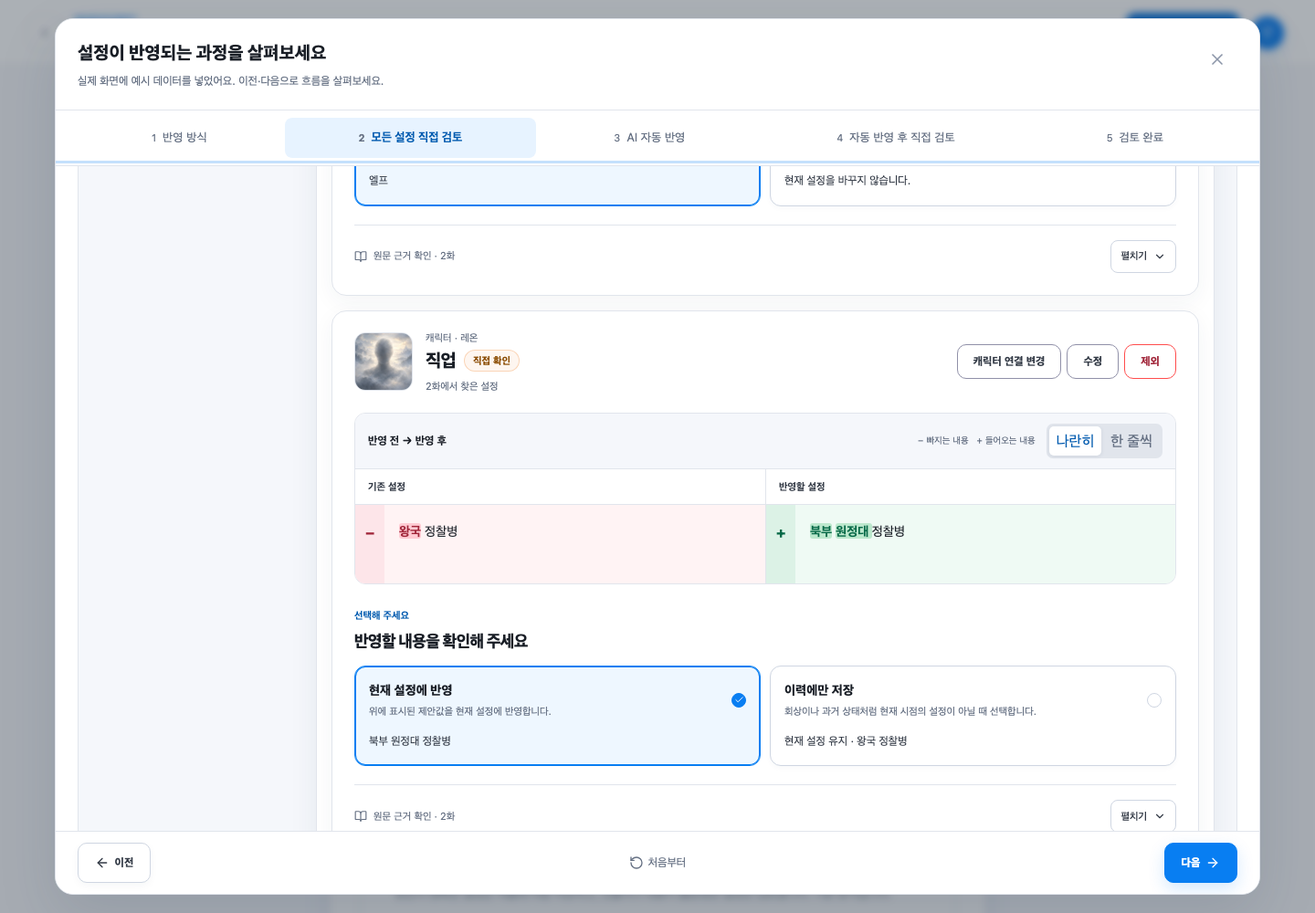
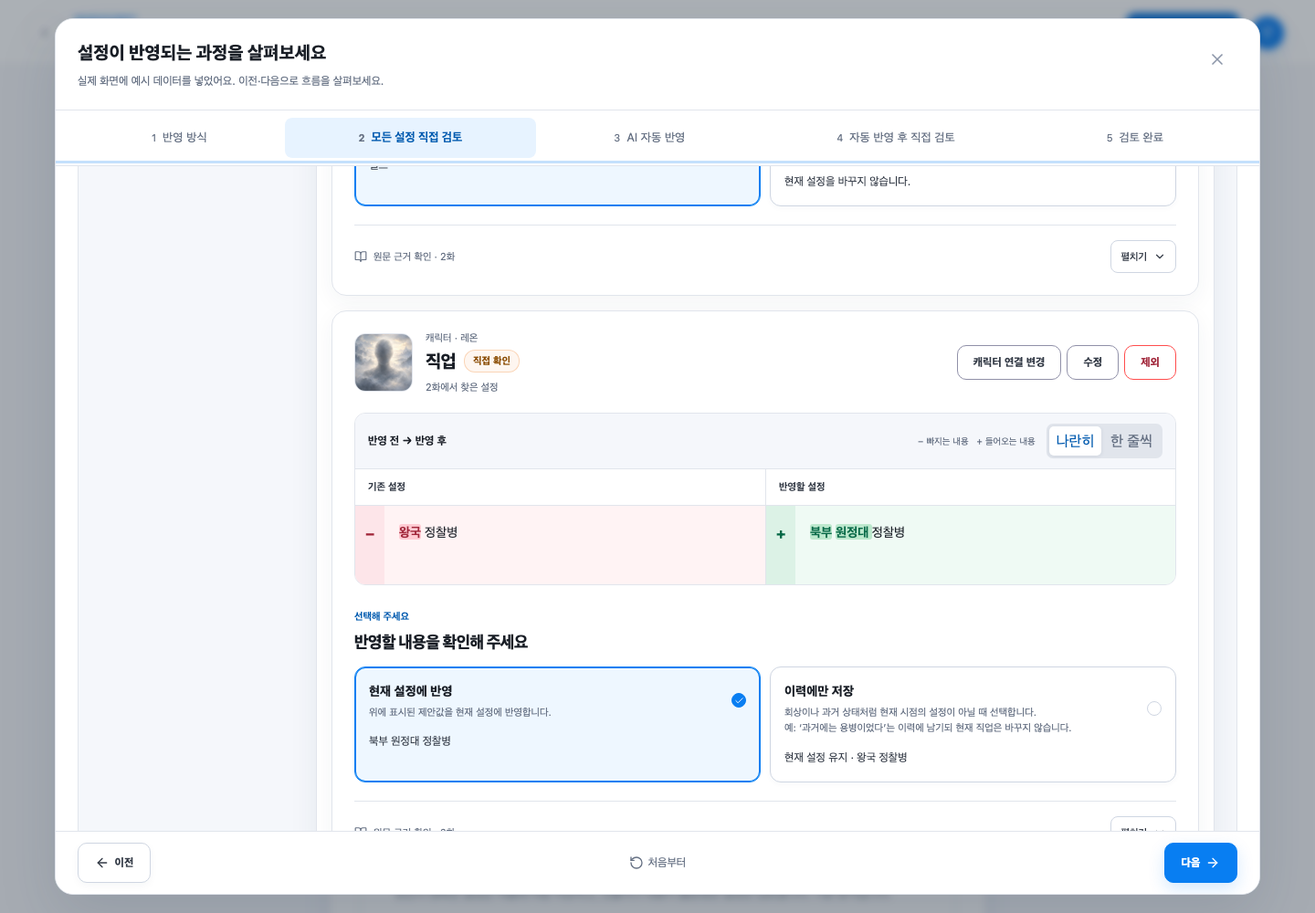
fix(review): 연결 실패의 선택을 보존하고 검토 안내를 보완한다

diff --git a/src/app/components/catchhole/worldsetting/WorldReviewDecisionPanel.tsx b/src/app/components/catchhole/worldsetting/WorldReviewDecisionPanel.tsx
@@ -25,6 +25,7 @@ export function WorldReviewDecisionPanel({ candidate, initialDraft, disabled, sh
   const [targetQuery, setTargetQuery] = useState('');
   const [targetPage, setTargetPage] = useState(0);
   const [targetLoading, setTargetLoading] = useState(false);
+  const [targetLoadFailed, setTargetLoadFailed] = useState(false);
   const [targetBefore, setTargetBefore] = useState<string | null>(null);
   const saved = Boolean(candidate.finalOperation);
   const sourceDraft = worldReviewSourceDraft(candidate, initialDraft);
@@ -44,7 +45,8 @@ export function WorldReviewDecisionPanel({ candidate, initialDraft, disabled, sh
   const [selectedTargetId, setSelectedTargetId] = useState<string | null>(null);
   const [editing, setEditing] = useState(false);
   const [error, setError] = useState<string | null>(null);
-  const dirty = !sameWorldReviewDraft(draft, initialDraft);
+  const targetBlocked = targetLoading || targetLoadFailed;
+  const dirty = !sameWorldReviewDraft(draft, initialDraft) || targetBlocked;
   useLayoutEffect(() => {
     onDirtyChange?.(dirty);
     return () => onDirtyChange?.(false);
@@ -55,6 +57,7 @@ export function WorldReviewDecisionPanel({ candidate, initialDraft, disabled, sh
     setError(null);
     setSelected(null);
     setSelectedTargetId(null);
+    setTargetLoadFailed(false);
     setTargetBefore(null);
   };
   const unresolved = candidate.comparisonReviewReason === 'SCOPE_UNRESOLVED';
@@ -93,7 +96,12 @@ export function WorldReviewDecisionPanel({ candidate, initialDraft, disabled, sh
   };
   const chooseTarget = async (id: string) => {
     const target = targets?.content?.find(item => item.id === id);
-    if (!target?.id || !target.subjectName || !target.category || disabled || targetLoading) return;
+    if (disabled || targetLoading || !candidate.workId) return;
+    // 검색·페이지가 바뀌어도 실패한 선택은 동일 ID로 다시 조회한다.
+    if (id !== selectedTargetId && (!target?.id || !target.subjectName || !target.category)) return;
+    setSelectedTargetId(id);
+    setTargetBefore(null);
+    setTargetLoadFailed(false);
     setTargetLoading(true);
     setError(null);
     try {
@@ -106,7 +114,6 @@ export function WorldReviewDecisionPanel({ candidate, initialDraft, disabled, sh
       const normalized = (value?: string | null) => (value ?? '').trim().normalize('NFC').toLocaleLowerCase('ko-KR');
       const existing = detail.properties?.find(property => normalized(property.scopeName) === normalized(next.scopeName)
         && normalized(property.settingName) === normalized(next.settingName));
-      setSelectedTargetId(id);
       setDraft(next);
       if (existing?.value) {
         setTargetBefore(existing.value);
@@ -114,7 +121,8 @@ export function WorldReviewDecisionPanel({ candidate, initialDraft, disabled, sh
       } else if (conflict) setEditing(true);
       else save(next);
     } catch {
-      setError('대상의 현재 설정을 불러오지 못했습니다. 선택을 유지했으니 다시 선택해 주세요.');
+      setTargetLoadFailed(true);
+      setError('대상의 현재 설정을 불러오지 못했습니다. 선택한 대상을 다시 불러와 주세요.');
     } finally { setTargetLoading(false); }
   };
   const choose = (id: string, value: WorldReviewDraft) => {
@@ -151,7 +159,7 @@ export function WorldReviewDecisionPanel({ candidate, initialDraft, disabled, sh
     && savedTarget.subjectName === initialDraft.subjectName && savedTarget.category === initialDraft.category
     ? savedTarget.properties?.find(property => (property.scopeName?.trim() || null) === (initialDraft.scopeName?.trim() || null)
       && property.settingName?.trim() === initialDraft.settingName.trim())?.value ?? null : null;
-  const currentTargetBefore = targetBefore ?? savedTargetBefore;
+  const currentTargetBefore = targetBlocked ? null : targetBefore ?? savedTargetBefore;
   const editorBefore = currentTargetBefore ?? (!subjectUnresolved ? candidate.beforeValue : null);
 
   return <div className="review-cb-decision-panel">
@@ -167,7 +175,9 @@ export function WorldReviewDecisionPanel({ candidate, initialDraft, disabled, sh
             footnote: '이 대상에 연결' }] : []),
           { id: 'new-target', title: '새로운 대상', description: candidate.subjectName ?? '', footnote: '기존 대상과 다른 이름으로 새로 추가' },
         ]}
-        onChange={id => { if (id === 'new-target') { setSelectedTargetId(id); setTargetBefore(null); setEditing(true); setDraft({ ...sourceDraft, subjectName: candidate.subjectName ?? sourceDraft.subjectName, operation: 'ADD', value: incoming }); } else void chooseTarget(id); }} />
+        onChange={id => { if (id === 'new-target') { setSelectedTargetId(id); setTargetBefore(null); setTargetLoadFailed(false); setError(null); setEditing(true); setDraft({ ...sourceDraft, subjectName: candidate.subjectName ?? sourceDraft.subjectName, operation: 'ADD', value: incoming }); } else void chooseTarget(id); }} />
+      {targetLoadFailed && selectedTargetId && <button type="button" className="review-cb-secondary" disabled={disabled || targetLoading}
+        onClick={() => void chooseTarget(selectedTargetId)}>선택한 대상 다시 불러오기</button>}
       {targetsQuery.isPending && <p role="status">기존 대상을 불러오고 있어요.</p>}
       {targetsQuery.isError && <ReviewNotice tone="warning" action={<button type="button" className="review-cb-secondary" onClick={() => void targetsQuery.refetch()}>다시 불러오기</button>}>기존 대상을 불러오지 못했어요. 새 대상이 없다는 뜻은 아니에요.</ReviewNotice>}
       {(targetPage > 0 || targets?.hasNext) && <div className="review-cb-actions">
@@ -202,7 +212,7 @@ export function WorldReviewDecisionPanel({ candidate, initialDraft, disabled, sh
         { id: 'edit', title: '내용·저장 위치 수정', description: '대상, 범위, 최종 내용을 직접 정할 수 있어요.', footnote: '같은 설정이 이미 있다면 여기에서 반영 방법 선택' },
       ]}
       onChange={id => { if (id === 'edit') setEditing(true); else choose('keep', sourceDraft); }} />}
-    {editorVisible && <form className="review-cb-inline-editor" onSubmit={event => { event.preventDefault(); if (!disabled) save(draft); }}>
+    {editorVisible && <form className="review-cb-inline-editor" onSubmit={event => { event.preventDefault(); if (!disabled && !targetBlocked) save(draft); }}>
       <strong>{conflict ? '최종 내용을 확인해 주세요' : '반영할 내용을 정해 주세요'}</strong>
       {candidate.comparisonReviewReason === 'SUBJECT_UNRESOLVED' && <p>어느 대상의 설정인지 원문을 확인해 대상 이름을 입력해 주세요. 기존 대상의 정확한 이름을 입력하면 해당 대상에 반영합니다.</p>}
       <div className="review-cb-inline-fields">
@@ -222,7 +232,7 @@ export function WorldReviewDecisionPanel({ candidate, initialDraft, disabled, sh
       {editorBefore && <ReviewValueComparison before={editorBefore} after={draft.value}
         mode={draft.operation === 'ADD' ? 'neutral' : 'change'} beforeLabel="현재 저장된 내용" afterLabel="저장할 최종 내용" />}
       {error && <ReviewNotice tone="danger">{error}</ReviewNotice>}
-      <button type="submit" className="review-cb-primary" disabled={disabled || targetLoading}>이 내용으로 검토 완료</button>
+      <button type="submit" className="review-cb-primary" disabled={disabled || targetBlocked}>이 내용으로 검토 완료</button>
       <p className="review-cb-help">{dirty ? '아직 저장하지 않은 수정이 있어요. 이 내용으로 검토 완료를 누르거나 수정을 닫아 주세요.' : '선택한 내용은 아래의 모두 확정으로 작품에 반영됩니다.'}</p>
     </form>}
     {error && !editorVisible && <ReviewNotice tone="danger">{error}</ReviewNotice>}

diff --git a/e2e/review-clear-blue-world.spec.ts b/e2e/review-clear-blue-world.spec.ts
@@ -22,6 +22,7 @@ async function setup(page: Page, overrides: Partial<WorldSettingCandidateRespons
   let candidates: WorldSettingCandidateResponse[] = [{ ...base, ...overrides }];
   if (options.second) candidates.push({ ...candidates[0], ...(typeof options.second === 'object' ? options.second : {}), id: '55555555-5555-4555-8555-555555555555' });
   let readbackFailure = Boolean(options.failReadback);
+  let targetFailure: 'http' | 'incomplete' | null = null;
   const saved: DecisionRequest[] = [];
   const confirmed: DecisionRequest[] = [];
   const requests: string[] = [];
@@ -64,7 +65,10 @@ async function setup(page: Page, overrides: Partial<WorldSettingCandidateRespons
       confirmedCandidateCount: 0, dismissedCandidateCount: 0, directReviewCandidateCount: 0, processingCandidateCount: 0, candidates: pageData([]) });
     if (path.endsWith('/world-settings')) return success(route, { totalWorldSettingCount: options.searchTargets ? 2 : 0,
       worldSettings: pageData(options.searchTargets ? [{ id: targetId, category: 'LOCATION', subjectName: '북부 미궁', propertyCount: 1 },
-        { id: '66666666-6666-4666-8666-666666666666', category: 'LOCATION', subjectName: '왕도 미궁', propertyCount: 0 }] : []) });
+        { id: '66666666-6666-4666-8666-666666666666', category: 'LOCATION', subjectName: '왕도 미궁', propertyCount: 0 }]
+        .filter(target => target.subjectName.includes(url.searchParams.get('q') ?? '')) : []) });
+    if (path.includes('/world-settings/') && targetFailure === 'http') return route.fulfill({ status: 400, contentType: 'application/json', body: JSON.stringify({ success: false, message: '대상 상세를 읽지 못했습니다.' }) });
+    if (path.includes('/world-settings/') && targetFailure === 'incomplete') return success(route, {});
     if (path.includes('/world-settings/')) return success(route, { id: path.split('/').at(-1), workId, category: 'LOCATION', subjectName: path.endsWith(targetId) ? '북부 미궁' : '왕도 미궁', version: 1, properties: options.targetValue ? [{ scopeName: null, settingName: '위험 기준', value: options.targetValue }] : [] });
     return success(route, {});
   });
@@ -73,7 +77,7 @@ async function setup(page: Page, overrides: Partial<WorldSettingCandidateRespons
   await page.goto(`/setting-review?workId=${workId}&batchId=${batchId}&candidateType=world`);
   if ((page.viewportSize()?.width ?? 1280) < 768) await page.locator('.world-candidate-group-card').first().click();
   await expect(page.locator('.world-setting-diff-row').first()).toBeVisible();
-  return { saved, confirmed, requests, allowReadback: () => { readbackFailure = false; } };
+  return { saved, confirmed, requests, setTargetFailure: (value: 'http' | 'incomplete' | null) => { targetFailure = value; }, allowReadback: () => { readbackFailure = false; } };
 }
 
 test('범위 미정은 예 한 번으로 기존 내용과 이번 내용을 함께 저장하고 마지막에 그룹 확정한다', async ({ page }) => {
@@ -419,4 +423,62 @@ test('기존 저장안이 있어도 재저장 실패 후 미저장 입력을 확
   expect(confirmed).toHaveLength(0);
   await page.getByRole('button', { name: '수정 닫기', exact: true }).click();
   await expect(confirm).toBeEnabled();
+});
+
+for (const failure of ['http', 'incomplete'] as const) {
+  test(`대상 상세 ${failure} 실패에도 선택을 보존하고 조회 재시도 후에만 저장한다`, async ({ page }) => {
+    const state = await setup(page, { comparisonReviewReason: 'SUBJECT_UNRESOLVED', beforeValue: null }, { searchTargets: true });
+    state.setTargetFailure(failure);
+    const target = page.getByRole('button', { name: /북부 미궁.*이 대상에 연결/ });
+    await target.click();
+    const retry = page.getByRole('button', { name: '선택한 대상 다시 불러오기' });
+    await expect(retry).toBeVisible();
+    await expect(target).toHaveAttribute('aria-pressed', 'true');
+    await expect(page.getByRole('button', { name: '모두 확정', exact: true })).toBeDisabled();
+    expect(state.saved).toHaveLength(0);
+    if (failure === 'http') {
+      await page.getByLabel('기존 세계관 대상 검색', { exact: true }).fill('왕도');
+      await expect(target).toHaveCount(0);
+    }
+    state.setTargetFailure(null);
+    await retry.click();
+    await expect.poll(() => state.saved.length).toBe(1);
+    expect(state.saved[0].candidates[0]).toMatchObject({ subjectName: '북부 미궁', operation: 'ADD' });
+    await expect(retry).toHaveCount(0);
+  });
+}
+
+test('저장된 대상에서 다른 대상 조회가 실패해도 이전 초안을 잘못 확정하지 않는다', async ({ page }) => {
+  const state = await setup(page, { comparisonReviewReason: 'SUBJECT_UNRESOLVED', beforeValue: null }, { searchTargets: true });
+  await page.getByRole('button', { name: /북부 미궁.*이 대상에 연결/ }).click();
+  await expect.poll(() => state.saved.length).toBe(1);
+  await expect(page.getByRole('button', { name: '모두 확정', exact: true })).toBeEnabled();
+  state.setTargetFailure('http');
+  const other = page.getByRole('button', { name: /왕도 미궁.*이 대상에 연결/ });
+  await other.click();
+  await expect(page.getByRole('button', { name: '선택한 대상 다시 불러오기' })).toBeVisible();
+  await expect(other).toHaveAttribute('aria-pressed', 'true');
+  await expect(page.getByRole('button', { name: '모두 확정', exact: true })).toBeDisabled();
+  expect(state.saved).toHaveLength(1);
+  state.setTargetFailure(null);
+  await page.getByRole('button', { name: '선택한 대상 다시 불러오기' }).click();
+  await expect.poll(() => state.saved.length).toBe(2);
+  expect(state.saved[1].candidates[0].subjectName).toBe('왕도 미궁');
+});
+
+test('세계관 제외 배지는 밝은 테마 중립색과 읽을 수 있는 대비를 사용한다', async ({ page }) => {
+  await setup(page, { suggestedOperation: 'EXCLUDE', comparisonReviewReason: undefined, manualReviewAvailable: false });
+  const badge = page.locator('.world-setting-diff-row .review-badge').first();
+  await expect(badge).toHaveText('중복·반영 안 함');
+  await expect(badge).toHaveCSS('color', 'rgb(51, 58, 70)');
+  await expect(badge).toHaveCSS('background-color', 'rgb(245, 247, 251)');
+  await expect(badge).toHaveCSS('border-top-color', 'rgb(207, 214, 226)');
+  const contrast = await badge.evaluate(node => {
+    const style = getComputedStyle(node);
+    const luminance = (rgb: string) => rgb.match(/\d+/g)!.slice(0, 3).map(Number).map(n => n / 255)
+      .map(n => n <= 0.04045 ? n / 12.92 : ((n + 0.055) / 1.055) ** 2.4)
+      .reduce((sum, n, i) => sum + n * [0.2126, 0.7152, 0.0722][i], 0);
+    return (luminance(style.backgroundColor) + 0.05) / (luminance(style.color) + 0.05);
+  });
+  expect(contrast).toBeGreaterThanOrEqual(4.5);
 });

diff --git a/src/app/components/catchhole/characterreview/CharacterReviewPresentation.tsx b/src/app/components/catchhole/characterreview/CharacterReviewPresentation.tsx
@@ -32,15 +32,17 @@ function characterReviewValues(candidate: SettingCandidateResponse) {
 }
 
 /** Registered characters are a paginated directory, not an invented AI recommendation list. */
-export function CharacterTargetChoices({ workId, previewCharacters, candidate, disabled, onResolve, onBrowse }: {
+export function CharacterTargetChoices({ workId, previewCharacters, candidate, disabled, resolutionError, onResolve, onBrowse }: {
   workId?: string;
   previewCharacters?: CharacterSummaryResponse[];
   candidate: SettingCandidateResponse;
   disabled: boolean;
+  resolutionError?: string | null;
   onResolve: (resolution: 'MATCH_EXISTING' | 'CREATE_NEW', value: string) => void;
   onBrowse: () => void;
 }) {
   const [createNew, setCreateNew] = useState(false);
+  const [selectedCharacterId, setSelectedCharacterId] = useState<string | null>(null);
   const [page, setPage] = useState(0);
   const [name, setName] = useState(candidate.entityName === '미상' ? '' : candidate.entityName ?? '');
   const query = useQuery({ ...getCharactersOptions({ path: { workId: workId ?? '' }, query: { page, size: 6 } }),
@@ -48,7 +50,7 @@ export function CharacterTargetChoices({ workId, previewCharacters, candidate, d
   const characters = previewCharacters ?? query.data?.data?.content ?? [];
   return <div className="review-character-targets">
     <ReviewChoiceCards label="누구에 관한 내용인가요?"
-      value={createNew ? 'new' : candidate.matchedCharacterId ?? null} disabled={disabled || query.isFetching}
+      value={createNew ? 'new' : selectedCharacterId ?? candidate.matchedCharacterId ?? null} disabled={disabled || query.isFetching}
       choices={[
         ...characters.flatMap(character => character.id ? [{ id: character.id, title: character.name || '이름 없는 인물',
           description: [character.representativeAttributeLabel && character.representativeAttributeValue
@@ -58,7 +60,9 @@ export function CharacterTargetChoices({ workId, previewCharacters, candidate, d
         }] : []),
         { id: 'new', title: '새로운 인물', description: '이름을 입력해 새로 등록', image: <CharacterSubjectImage />, footnote: '기존 인물과 다른 사람이에요' },
       ]}
-      onChange={id => { setCreateNew(id === 'new'); if (id !== 'new') onResolve('MATCH_EXISTING', id); }} />
+      onChange={id => { setCreateNew(id === 'new'); if (id !== 'new') { setSelectedCharacterId(id); onResolve('MATCH_EXISTING', id); } }} />
+    {resolutionError && !createNew && selectedCharacterId && <button type="button" className="review-cb-secondary" disabled={disabled}
+      onClick={() => onResolve('MATCH_EXISTING', selectedCharacterId)}>선택한 인물로 다시 연결</button>}
     <div className="review-inline-actions">
       <span>{!previewCharacters && query.isPending ? '등록된 인물을 불러오고 있어요.' : '등록된 인물 중에서 선택해 주세요.'}</span>
       <button type="button" className="review-action" disabled={disabled} onClick={onBrowse}>다른 인물 찾기</button>
@@ -156,7 +160,7 @@ export function CharacterReviewComparison({ candidate, applicationMode, reviewed
           description: manual ? '확인한 이번 내용으로 현재 설정을 바꿉니다.' : '위에 표시된 제안값을 현재 설정에 반영합니다.',
           preview: operation === 'REMOVE' && !manual ? '이전 내용은 이력에 남아요.' : manual ? candidate.attributeValue : values.after ?? undefined }] : []),
         ...(policy.canSaveHistory || canReviewCurrent ? [{ id: 'HISTORY_ONLY', title: '이력에만 저장',
-          description: '회상이나 과거 상태처럼 현재 시점의 설정이 아닐 때 선택합니다.',
+          description: <>회상이나 과거 상태처럼 현재 시점의 설정이 아닐 때 선택합니다.<br />예: ‘과거에는 용병이었다’는 이력에 남기되 현재 직업은 바꾸지 않습니다.</>,
           preview: values.before ? `현재 설정 유지 · ${values.before}` : '현재 설정을 바꾸지 않습니다.' }] : []),
         ...(!policy.canApplyProposal && !canReviewCurrent && onEdit ? [{ id: 'edit', title: '현재 반영할 내용 수정',
           description: '현재 설정을 바꿔야 한다면 값을 수정해 주세요.', footnote: '수정 창 열기' }] : []),

diff --git a/e2e/review-clear-blue-character.spec.ts b/e2e/review-clear-blue-character.spec.ts
@@ -27,6 +27,7 @@ async function fixture(page: Page, overrides: Record<string, unknown> = {}) {
   let candidate = { ...initialCandidate, ...overrides };
   const requests: { method: string; path: string; body: Record<string, unknown> }[] = [];
   let rejectReview = false;
+  let rejectMatch = false;
   let matchResponse: Record<string, unknown> = {};
   await page.route('**/api/v1/**', async route => {
     const request = route.request();
@@ -44,6 +45,7 @@ async function fixture(page: Page, overrides: Record<string, unknown> = {}) {
       return success(route, candidate);
     }
     if (path.endsWith('/character-match')) {
+      if (rejectMatch) return route.fulfill({ status: 503, contentType: 'application/json', body: JSON.stringify({ success: false, message: '연결 요청에 실패했습니다.' }) });
       candidate = { ...candidate, matchedCharacterId: request.postDataJSON().matchedCharacterId,
         matchStatus: 'MATCHED', userModified: true, reviewedApplicationMode: null, updatedAt: '2026-10-02T01:01:00Z', ...matchResponse };
       return success(route, candidate);
@@ -68,7 +70,7 @@ async function fixture(page: Page, overrides: Record<string, unknown> = {}) {
   await page.goto('/login');
   await page.evaluate(() => localStorage.setItem('accessToken', 'clear-blue-character-test'));
   await page.goto(url);
-  return { requests, rejectReview: (value: boolean) => { rejectReview = value; },
+  return { requests, rejectMatch: (value: boolean) => { rejectMatch = value; }, rejectReview: (value: boolean) => { rejectReview = value; },
     setMatchResponse: (values: Record<string, unknown>) => { matchResponse = values; },
     setCandidate: (values: Record<string, unknown>) => { candidate = { ...candidate, ...values }; } };
 }
@@ -464,3 +466,36 @@ for (const state of ['CONFIRMED', 'DISMISSED'] as const) {
     }
   });
 }
+
+for (const width of [1280, 320]) {
+  test(`${width}px 캐릭터 연결 실패는 선택을 보존하고 같은 인물로 재시도한다`, async ({ page }) => {
+    await page.setViewportSize({ width, height: 900 });
+    const state = await fixture(page, { matchStatus: 'AMBIGUOUS', matchedCharacterId: null, comparisonStatus: 'WAITING_FOR_CHARACTER_MATCH' });
+    const openDetail = page.getByRole('button', { name: /루안.*1개 설정/ });
+    if (width < 768 && await openDetail.isVisible()) await openDetail.click();
+    state.rejectMatch(true);
+    const target = card(page).getByRole('button', { name: /루안 게르/ });
+    await target.click();
+    const retry = card(page).getByRole('button', { name: '선택한 인물로 다시 연결' });
+    await expect(retry).toBeVisible();
+    await expect(target).toHaveAttribute('aria-pressed', 'true');
+    await expect(confirm(page)).toBeDisabled();
+    expect(state.requests.filter(request => request.path.endsWith('/character-match'))).toHaveLength(1);
+    state.rejectMatch(false);
+    await retry.click();
+    await expect(retry).toHaveCount(0);
+    const matches = state.requests.filter(request => request.path.endsWith('/character-match'));
+    expect(matches).toHaveLength(2);
+    expect(matches.map(request => request.body.matchedCharacterId)).toEqual([character2Id, character2Id]);
+    expect(state.requests.some(request => request.path.endsWith('/group-confirm'))).toBe(false);
+    await expect.poll(() => page.evaluate(() => document.documentElement.scrollWidth <= innerWidth)).toBe(true);
+  });
+}
+
+test('이력 선택에 과거 직업 예시를 별도 줄로 보여 준다', async ({ page }) => {
+  await fixture(page);
+  const choice = card(page).getByRole('button', { name: /이력에만 저장/ });
+  await expect(choice).toContainText('과거에는 용병이었다');
+  await expect(choice).toContainText('현재 직업은 바꾸지 않습니다.');
+  await expect(choice.locator('.review-cb-choice__identity br')).toHaveCount(1);
+});

diff --git a/src/app/components/catchhole/worldsetting/WorldSettingReview.tsx b/src/app/components/catchhole/worldsetting/WorldSettingReview.tsx
@@ -411,17 +411,19 @@ function userFacingComparisonReason(
 function Badge({
   label,
   color,
+  neutral = false,
   textColor = reviewToneInk(color),
 }: {
   label: string;
   color: string;
+  neutral?: boolean;
   textColor?: string;
 }) {
   return (
     <span className="review-badge" style={{
       display: 'inline-flex', alignItems: 'center', minHeight: 24,
-      padding: '2px 8px', borderRadius: 12, border: `1px solid ${color}55`,
-      background: `${color}18`, color: textColor, fontSize: 10, fontWeight: 750,
+      padding: '2px 8px', borderRadius: 12, border: neutral ? '1px solid var(--ch-border-strong)' : `1px solid ${color}55`,
+      background: neutral ? 'var(--ch-canvas)' : `${color}18`, color: neutral ? 'var(--ch-text)' : textColor, fontSize: 10, fontWeight: 750,
       whiteSpace: 'nowrap',
     }}>
       {label}
@@ -786,8 +788,8 @@ export function WorldKeyDiffRow({
     : automaticPending ? '분석 중' : executionLabel ?? (saved ? inlineDirty ? '수정 중' : '검토 완료' : hasConflict && !isBatchLimitExceededCandidate(candidate) ? '내용 확인 필요' : needsReview ? holdLabel ?? reviewReasonLabel(candidate)
     : operation === 'ADD' ? '새 설정' : operation === 'EXCLUDE' ? before ? '중복·반영 안 함' : '반영 안 함'
     : OPERATION_META[operation ?? 'REVIEW_REQUIRED'].label);
-  const stateTone = !pending && candidate.reviewStatus === 'DISMISSED' || operation === 'EXCLUDE' ? C.t2
-    : inlineDirty ? C.warning : resolved ? C.success : automaticPending ? C.primary
+  const excluded = candidate.reviewStatus === 'DISMISSED' || operation === 'EXCLUDE';
+  const stateTone = inlineDirty ? C.warning : resolved ? C.success : automaticPending ? C.primary
     : executionLabel ? candidate.comparisonStatus === 'FAILED' && !isQuotaInterruptedCandidate(candidate) ? C.danger : C.warning
     : needsReview ? C.warning : C.success;
   const finalSavedValue = pending && saved && Boolean(candidate.finalValue);
@@ -800,7 +802,7 @@ export function WorldKeyDiffRow({
     <ReviewSettingHeading title={keyName}
       subtitle={[category ? CATEGORY_META[category].label : '세계관', subjectName, scopeName ? `범위: ${scopeName}` : null].filter(Boolean).join(' · ')}
       image={<ReviewSubjectThumbnail kind="world" workId={candidate.workId ?? ''} worldSettingId={saved && decision?.subjectName !== resolvedTargetSubjectName(candidate) ? undefined : candidate.targetWorldSettingId ?? undefined} category={category} />}
-      badge={<><Badge label={stateLabel} color={stateTone} />{recompared && <Badge label="재비교됨" color={C.success} />}</>}
+      badge={<><Badge label={stateLabel} color={stateTone} neutral={excluded} />{recompared && <Badge label="재비교됨" color={C.success} />}</>}
       episode={candidate.sourceEpisodeNo == null ? '회차 근거 없음' : `${candidate.sourceEpisodeNo}화에서 찾은 설정`}
       actions={<>
         <button type="button" className="review-cb-secondary" disabled={disabled || !canEdit} onClick={onEdit}><Pencil size={13} /> 수정</button>

diff --git a/src/app/components/catchhole/characterreview/CharacterSettingReview.tsx b/src/app/components/catchhole/characterreview/CharacterSettingReview.tsx
@@ -1155,7 +1155,7 @@ export function CandidateDetail({
       {needsTarget && !readOnly && <>
         <ReviewInlineValue label="이번 원고에서">{candidate.attributeValue || '인물의 등장'}</ReviewInlineValue>
         {(workId || previewCharacters) && onResolveTarget ? <CharacterTargetChoices candidate={candidate} workId={workId} previewCharacters={previewCharacters}
-          disabled={disabled || invalidValue} onResolve={onResolveTarget} onBrowse={() => onMatch?.('MATCH_EXISTING')} />
+          disabled={disabled || invalidValue} resolutionError={actionError} onResolve={onResolveTarget} onBrowse={() => onMatch?.('MATCH_EXISTING')} />
           : <ReviewNotice title="누구에 관한 내용인가요?" action={<ActionButton disabled={disabled || invalidValue} onClick={() => onMatch?.('MATCH_EXISTING')}>캐릭터 연결</ActionButton>}>원문에 등장한 인물을 선택해 주세요.</ReviewNotice>}
       </>}
       {comparisonEnabled && !invalidValue && <CharacterReviewComparison candidate={candidate}
